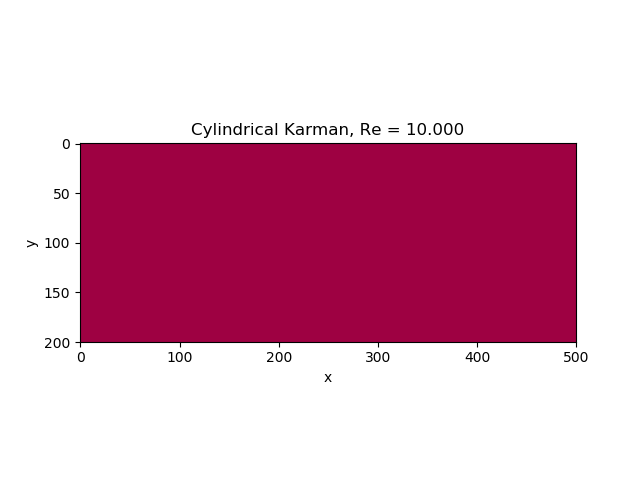
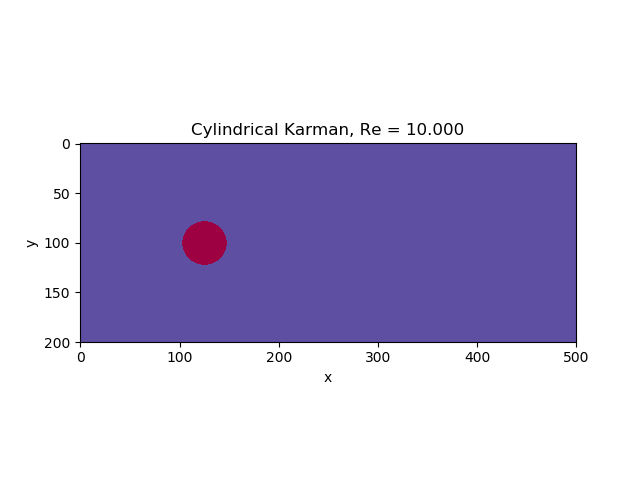
Almost deleted a bunch of things.

diff --git a/karman.py b/karman.py
@@ -9,18 +9,11 @@ class karmanVortexSheet(latticeBoltzmann):
 	def geometry(self):
 		"""Defines the geometry, boundaries and suchlike. In the base class, this is a pipe. """
 
-		self.obstacles = np.fromfunction(lambda x, y: ((x-self.length/4)**2 + (y - self.width/2)**2) < (self.width/9)**2, (self.nodes[0], self.nodes[1]))
-
-
-		print("is there an object?")
-		for i in range(self.obstacles.shape[0]):
-			for j in range(self.obstacles.shape[1]):
-				if self.obstacles[i,j] != False:
-					print(self.obstacles[i, j])
-		sys.exit(0)
-
-
-		self.flow = np.fromfunction(lambda dd, xx, yy: (1-dd) * self.velocity * (1 + 1e-4*np.sin(yy/self.width*2*np.pi)), (2, self.nodes[0], self.nodes[1]))
+		#circular object
+		self.obstacles = np.fromfunction(lambda x, y: ((x-self.nodes[0]/4)**2 + (y - self.nodes[1]/2)**2) < (self.nodes[1]/9)**2, (self.nodes[0], self.nodes[1]))
+ 
+ 		#sinusoidal flow
+		self.flow = np.fromfunction(lambda dd, xx, yy: (1-dd) * self.velocity * (1 + 1e-4*np.sin(yy/self.nodes[1]*2*np.pi)), (2, self.nodes[0], self.nodes[1]))
 
 		#initial distributions
 		self.distributions = self.equilibrium( 1.0, self.flow)

diff --git a/README.md b/README.md
@@ -13,6 +13,7 @@ The characteristic length is "1". Given the sound speed of sqrt(1/3), I will def
 
 
 
+
 # Design
 
 Ideally, a physicist wants to do physics. The numerical solution should be as simple as possible.
